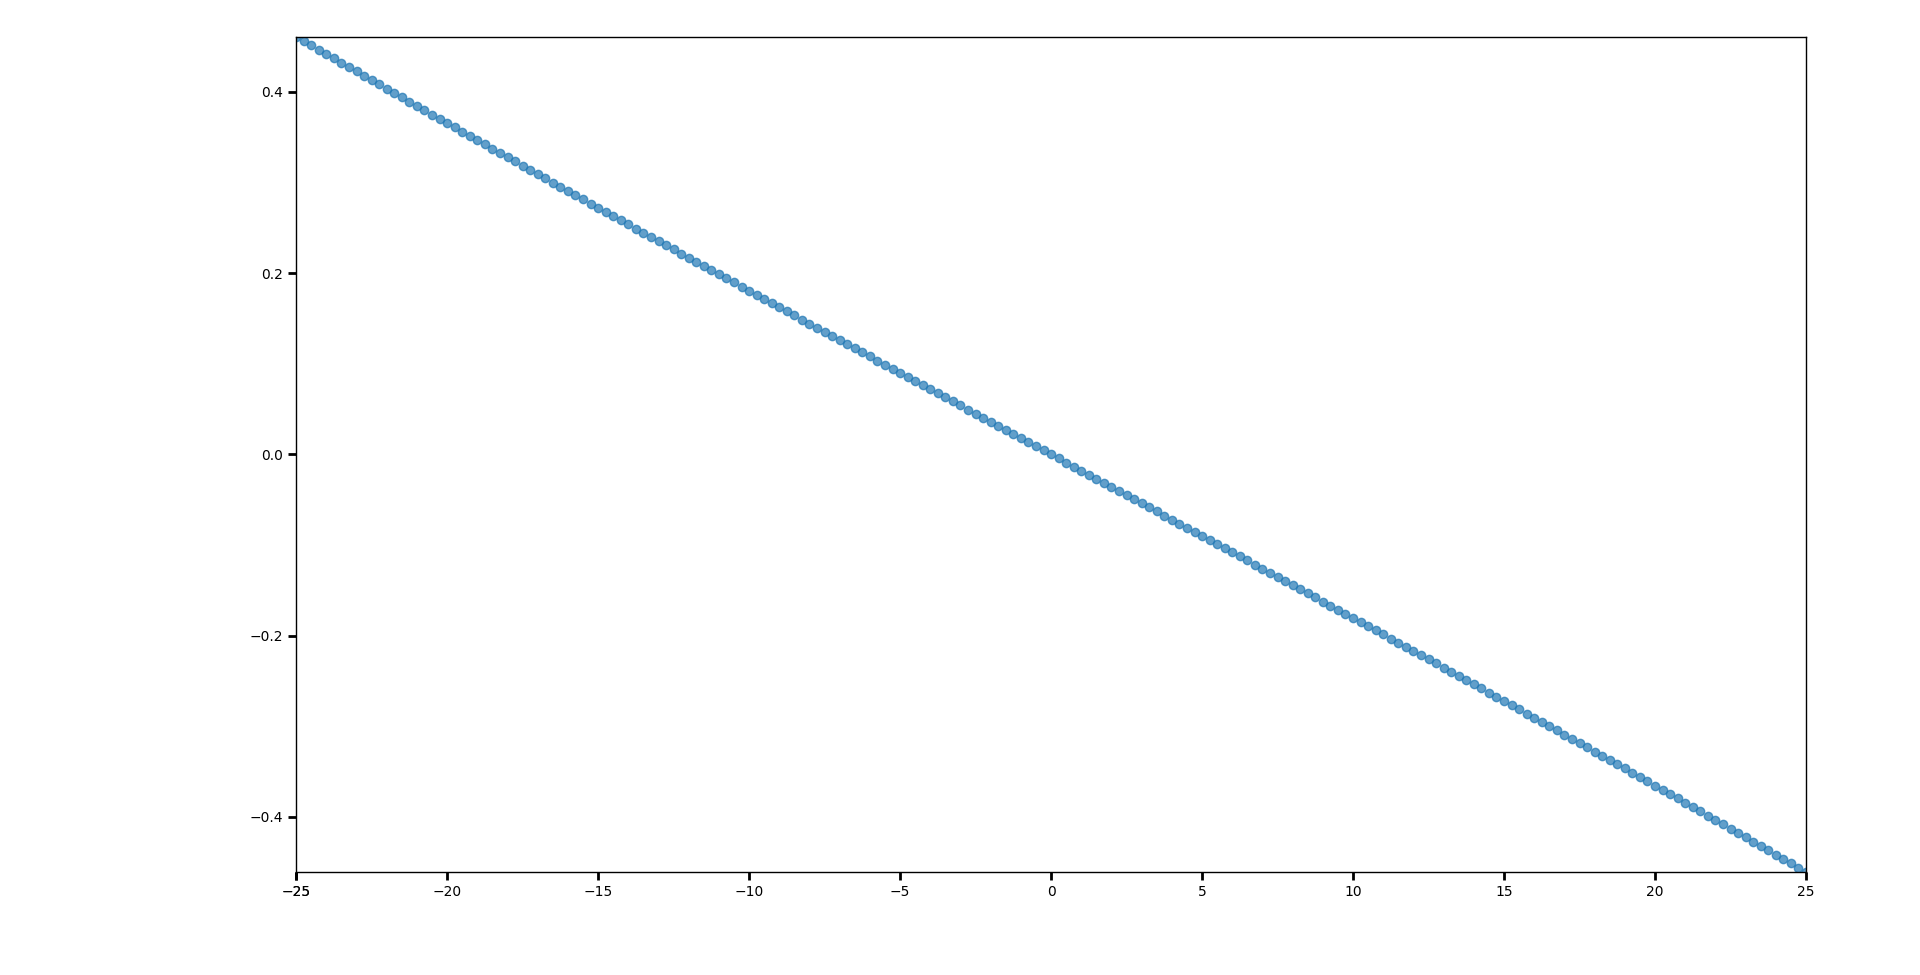
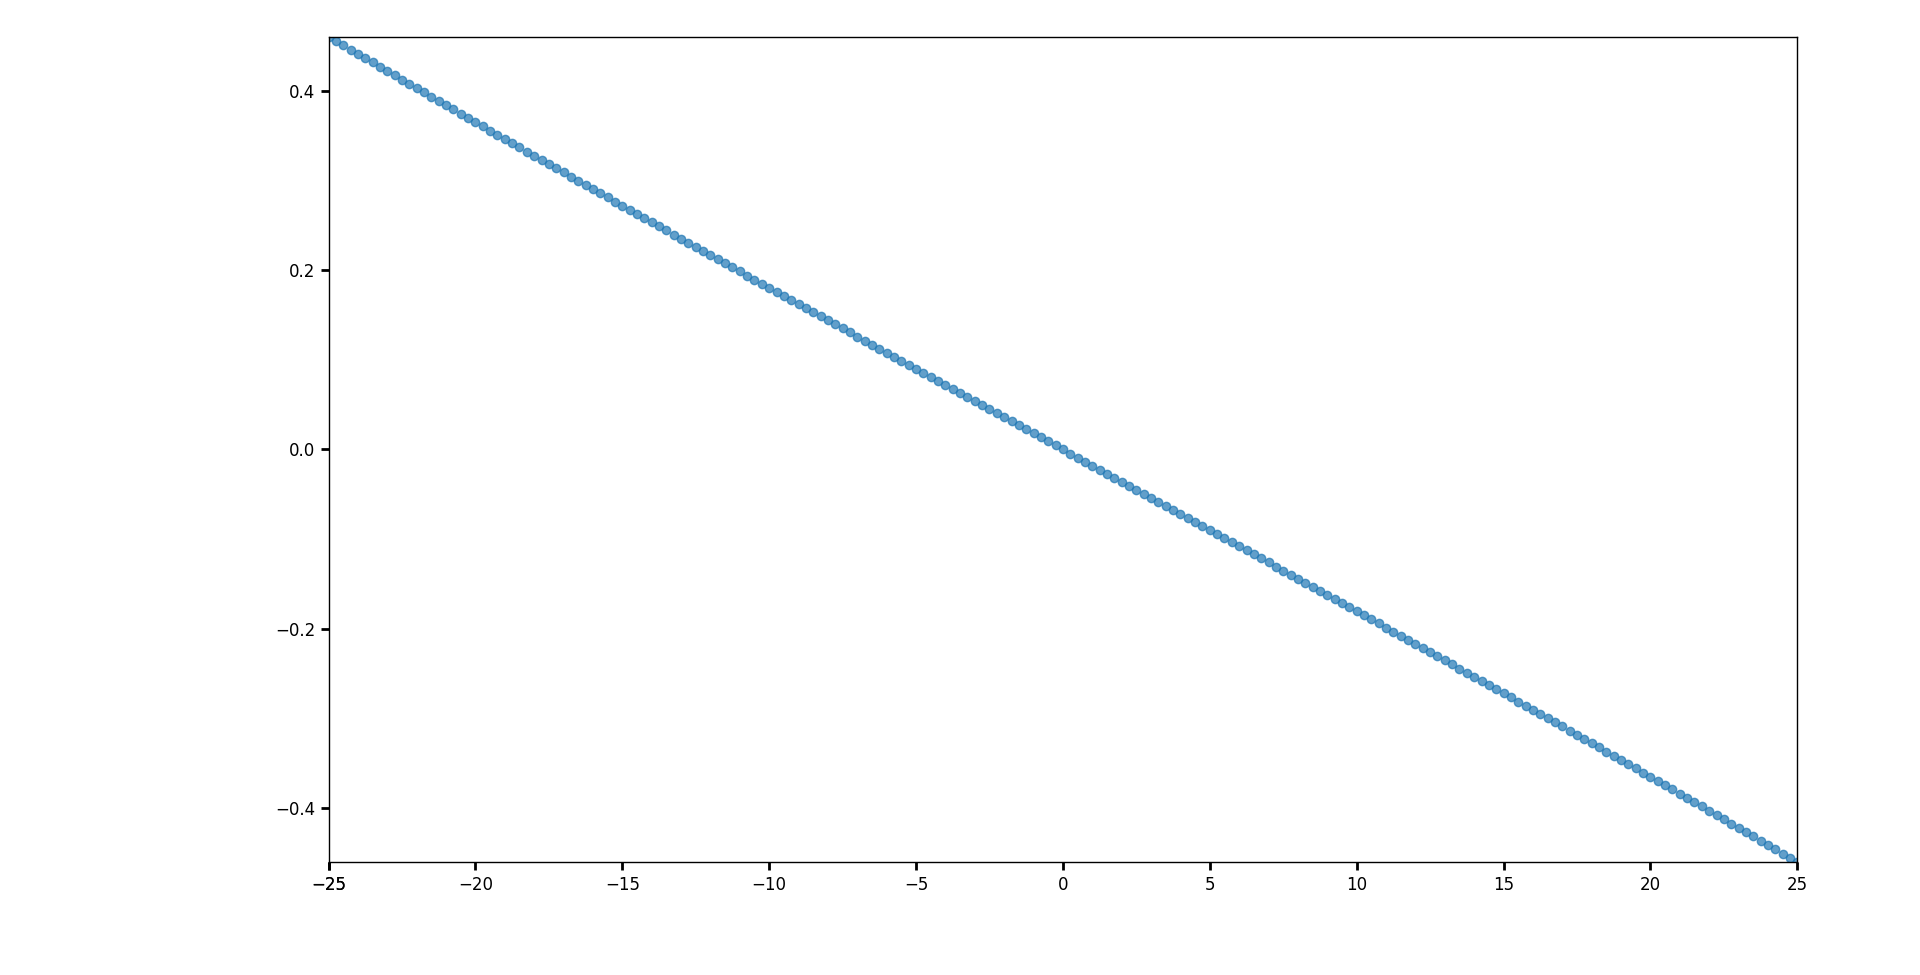
tick font size 12

diff --git a/E_perp_vs_par_Field_transverse_disp.py b/E_perp_vs_par_Field_transverse_disp.py
@@ -91,7 +91,7 @@ def main():
     XTICKS = [-25,-20,-25,-15,-10,-5,0, 5, 10, 15, 20, 25]
     ax.set_xticks(XTICKS)
     # --- Increase tick line width and tick label size ---
-    ax.tick_params(axis='both', which='both', width=2, length=6, labelsize=10)
+    ax.tick_params(axis='both', which='both', width=2, length=6, labelsize=12)
 
     # --- Add black border (axes spines) ---
     for spine in ax.spines.values():

diff --git a/E_perp_vs_par_Field.py b/E_perp_vs_par_Field.py
@@ -140,7 +140,7 @@ def main():
     YTICKS = [-3, -2, -2, 0, 1, 2, 3]
     ax.set_xticks(XTICKS)
     # --- Increase tick line width and tick label size ---
-    ax.tick_params(axis='both', which='both', width=2, length=6, labelsize=10)
+    ax.tick_params(axis='both', which='both', width=2, length=6, labelsize=12)
 
     # --- Add black border (axes spines) ---
     for spine in ax.spines.values():
